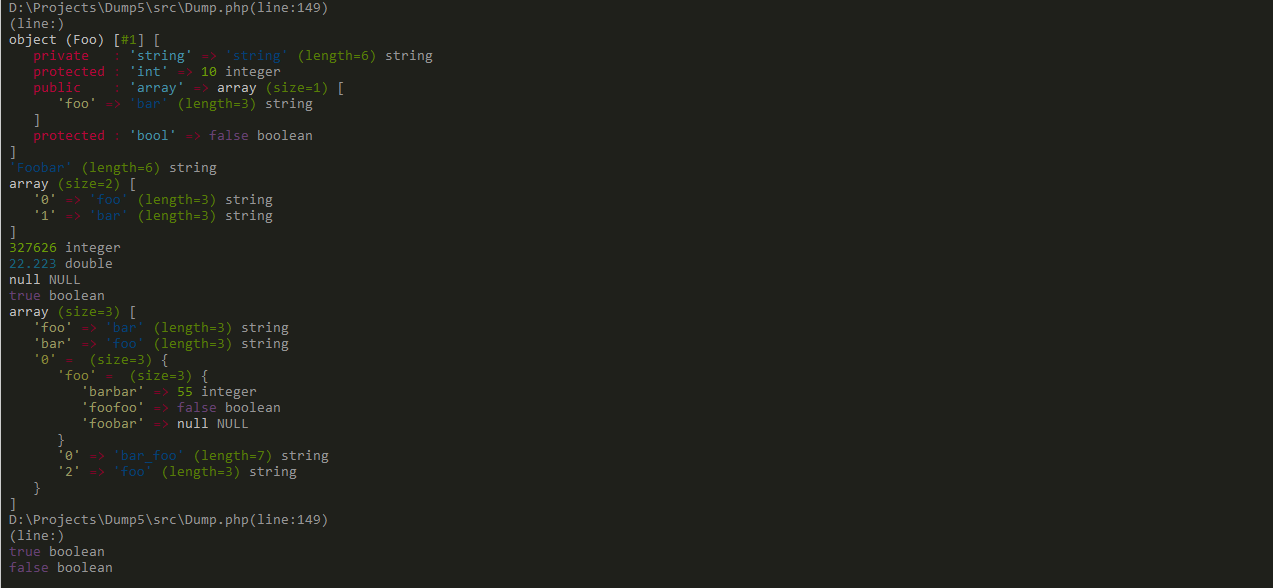
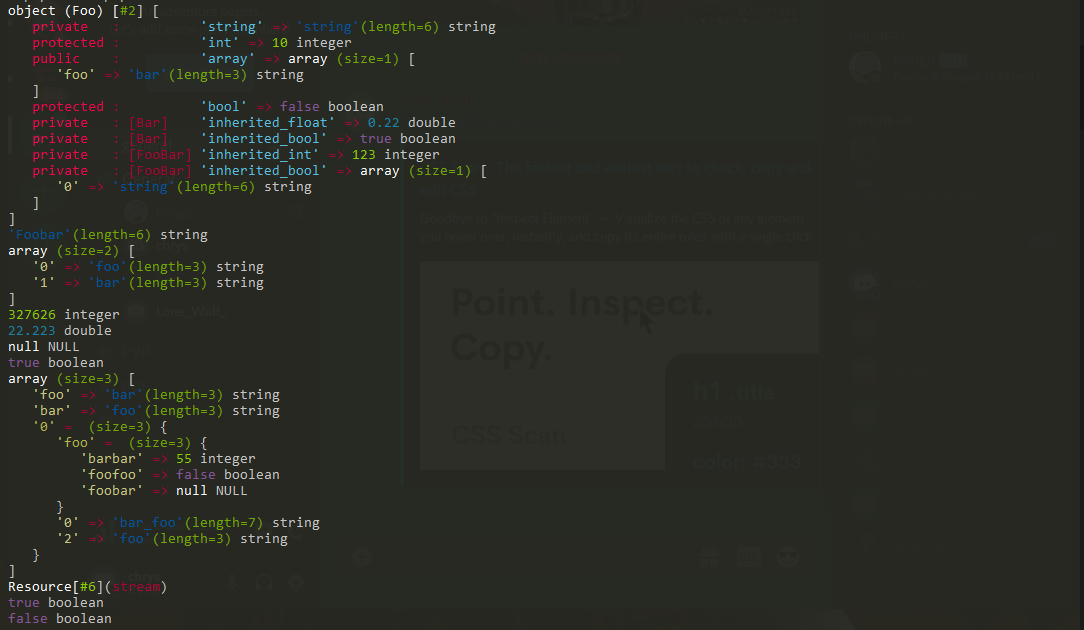
Add support for inherited properties

Changed region(s): [[0.0, 0.0, 0.4566, 1.0], [0.0304, 0.7959, 0.0609, 0.8265]]

diff --git a/src/Dump.php b/src/Dump.php
@@ -61,6 +61,7 @@ class Dump
         'type'                  => array('AAAAAA', 'light_gray'),
         'size'                  => array('5BA415', 'green'),
         'recursion'             => array('F00000', 'red'),
+        'resource'              => array('F00000', 'red'),
 
         'array'                 => array('000000', 'white'),
         'multi_array_key'       => array('59829e', 'yellow'),
@@ -296,14 +297,15 @@ class Dump
                 break;
             }
         }
+
         $file =  "{$bt['file']}(line:{$bt['line']})";
-        if (! $this->isCli)
+        if ($this->isCli)
         {
-            echo '<code><small>' . $file . '</small><br />' . $data . '</code>';
+            $this->write("{$file}\n{$data}");
         }
         else
         {
-            $this->write("{$file}\n{$data}");
+            echo '<code><small>' . $file . '</small><br />' . $data . '</code>';
         }
     }
 
@@ -316,22 +318,21 @@ class Dump
      */
     private function color($value, $name)
     {
-        if (! $this->isCli)
-        {
-            if ($name == 'type')
-            {
-                return '<small style="color:#' . $this->colors[$name][0] . '">' . $value . '</small>';
-            }
-            elseif ($name == 'array' || $name == 'object')
-            {
-                $value = preg_replace('/(\[|\]|array|object)/', '<b>$0</b>', $value);
-            }
-            return '<span  style="color:#' . $this->colors[$name][0] . '">' . $value . '</span>';
-        }
-        else
+        if ($this->isCli)
         {
             return $this->format($value, $this->colors[$name][1]);
         }
+
+        if ($name == 'type')
+        {
+            return '<small style="color:#' . $this->colors[$name][0] . '">' . $value . '</small>';
+        }
+        elseif ($name == 'array' || $name == 'object')
+        {
+            $value = preg_replace('/(\[|\]|array|object)/', '<b>$0</b>', $value);
+        }
+
+        return '<span  style="color:#' . $this->colors[$name][0] . '">' . $value . '</span>';
     }
 
     /**
@@ -376,7 +377,7 @@ class Dump
      */
     private function indent($pad)
     {
-        return str_repeat((! $this->isCli) ? '&nbsp;' : ' ', $pad);
+        return str_repeat($this->isCli ? ' ' : '&nbsp;', $pad);
     }
 
     /**
@@ -387,7 +388,7 @@ class Dump
      */
     private function pad($size)
     {
-        return str_repeat((! $this->isCli) ? '&nbsp;' : ' ', $size < 0 ? 0 : $size);
+        return str_repeat($this->isCli ? ' ' : '&nbsp;', $size < 0 ? 0 : $size);
     }
 
     /**
@@ -399,14 +400,9 @@ class Dump
      */
     private function arrayIndex($key, $parent = false)
     {
-        if (! $parent)
-        {
-            return $this->color("'$key'", 'multi_array_key') . " {$this->color('=', 'multi_array_arrow')} ";
-        }
-        else
-        {
-            return $this->color("'$key'", 'single_array_key') . " {$this->color('=>', 'single_array_arrow')} ";
-        }
+        return $parent
+            ? "{$this->color("'{$key}'", 'single_array_key')} {$this->color('=>', 'single_array_arrow')} "
+            : "{$this->color("'{$key}'", 'multi_array_key')} {$this->color('=', 'multi_array_arrow')} ";
     }
 
     /**
@@ -418,30 +414,34 @@ class Dump
      */
     private function formatArray(array $array, $obj_call)
     {
-        $tmp = '';
+        $tmp          = '';
         $this->indent += $this->pad_size;
+        $break_line   = $this->breakLine();
+        $indent       = $this->indent($this->indent);
         foreach ($array as $key => $arr)
         {
             if (is_array($arr))
             {
-                $tmp .= "{$this->breakLine()}{$this->indent($this->indent)}{$this->arrayIndex((string) $key)} {$this->counter(count($arr))}";
+                $tmp .= "{$break_line}{$indent}{$this->arrayIndex((string) $key)} {$this->counter(count($arr))}";
                 $new = $this->formatArray($arr, $obj_call);
-                $tmp .=  ($new != '') ? " {{$new}{$this->indent($this->indent)}}" : ' {}';
+                $tmp .= ($new != '') ? " {{$new}{$indent}}" : ' {}';
             }
             else
             {
-                $tmp .= "{$this->breakLine()}{$this->indent($this->indent)}{$this->arrayIndex((string) $key, true)}{$this->evaluate(array($arr), true)}";
+                $tmp .= "{$break_line}{$indent}{$this->arrayIndex((string) $key, true)}{$this->evaluate([$arr], true)}";
             }
         }
+
         $this->indent -= $this->pad_size;
         if ($tmp != '')
         {
-            $tmp .= $this->breakLine();
+            $tmp .= $break_line;
             if ($obj_call)
             {
                 $tmp .= $this->indent($this->indent);
             }
         }
+
         return $tmp;
     }
 
@@ -474,27 +474,64 @@ class Dump
             return $this->color('...', 'recursion');
         }
 
-        $reflection = new ReflectionObject($object);
-        $tmp = '';
-        $this->indent += $this->pad_size;
-        foreach ($reflection->getProperties() as $size => $prop)
+        $reflection   = new \ReflectionObject($object);
+        $parent       = $reflection->getParentClass();
+        $properties   = $reflection->getProperties();
+        $inherited    = array_fill(0, count($properties), null);
+        $max_indent   = 0;
+        $name         = null;
+        $props        = null;
+
+        while ($parent)
         {
+            $props      = $parent->getProperties();
+            $name       = $parent->getName();
+            $properties = array_merge($properties, $props);
+            $inherited  = array_merge($inherited, array_fill(count($inherited), count($props), $name));
+            $parent     = $parent->getParentClass();
+            $max_indent = max($max_indent, strlen($name));
+        }
+
+        $tmp             = '';
+        $indent          = $this->indent($this->indent += $this->pad_size);
+        $private_color   = $this->color('private', 'property_visibility');
+        $protected_color = $this->color('protected', 'property_visibility');
+        $public_color    = $this->color('public', 'property_visibility');
+        $property_color  = $this->color(':', 'property_arrow');
+        $arrow_color     = $this->color('=>', 'property_arrow');
+        $string_pad_2    = $this->pad(2);
+        $string_pad_3    = $this->pad(3);
+        $line_break      = $this->breakLine();
+
+        foreach ($properties as $size => $prop)
+        {
+            if (isset($inherited[$size]))
+            {
+                $name = $inherited[$size];
+                $from = $this->color("[{$name}]", 'property_arrow');
+                $from .= $this->indent($max_indent - strlen($name));
+            }
+            else
+            {
+                $from = $max_indent > 0 ? $this->indent($max_indent + 2) : '';
+            }
+
             if ($prop->isPrivate())
             {
-                $tmp .= "{$this->breakLine()}{$this->indent($this->indent)}{$this->color('private', 'property_visibility')}{$this->pad(2)} {$this->color(':', 'property_arrow')} ";
+                $tmp .= "{$line_break}{$indent}{$private_color}{$string_pad_2} {$property_color} ";
             }
             elseif ($prop->isProtected())
             {
-                $tmp .= "{$this->breakLine()}{$this->indent($this->indent)}{$this->color('protected', 'property_visibility')} {$this->color(':', 'property_arrow')} ";
+                $tmp .= "{$line_break}{$indent}{$protected_color} {$property_color} ";
             }
             elseif ($prop->isPublic())
             {
-                $tmp .= "{$this->breakLine()}{$this->indent($this->indent)}{$this->color('public', 'property_visibility')}{$this->pad(3)} {$this->color(':', 'property_arrow')} ";
+                $tmp .= "{$line_break}{$indent}{$public_color}{$string_pad_3} {$property_color} ";
             }
 
             $prop->setAccessible(true);
-            $tmp .= $this->color("'{$prop->getName()}'", 'property_name')
-                . " {$this->color('=>', 'property_arrow')} {$this->evaluate(array($prop->getValue($object)), true, true)}";
+            $new_obj = $prop->getValue($reflection->newInstanceWithoutConstructor());
+            $tmp .= "{$from} {$this->color("'{$prop->getName()}'", 'property_name')} {$arrow_color} {$this->evaluate(array($new_obj), true, true)}";
         }
 
         if ($tmp != '')
@@ -524,30 +561,28 @@ class Dump
      */
     private function evaluate(array $args, $called = false, $from_obj = false)
     {
-        $tmp = null;
+        $tmp        = null;
+        $null_color = $this->color('null', 'null');
+
         foreach ($args as $each)
         {
             $type = gettype($each);
             switch ($type)
             {
                 case 'string':
-
                     if (! $this->isCli)
                     {
                         $each = nl2br(str_replace(array('<', ' '), array('&lt;', '&nbsp;'), $each));
                     }
 
-                    $tmp .=  $this->color("'{$each}'", $type)
-                            . "{$this->counter(strlen($each), 1)}{$this->type($type)}";
+                    $tmp .= "{$this->color("'{$each}'", $type)}{$this->counter(strlen($each), 1)}{$this->type($type)}";
                     break;
                 case 'integer':
+                case 'double':
                     $tmp .=  "{$this->color((string) $each, $type)}{$this->type($type)}";
                     break;
-                case 'double':
-                    $tmp .= "{$this->color((string) $each, $type)}{$this->type($type)}";
-                    break;
                 case 'NULL':
-                    $tmp .= "{$this->color('null', 'null')}{$this->type($type)}";
+                    $tmp .= "{$null_color}{$this->type($type)}";
                     break;
                 case 'boolean':
                     $tmp .= "{$this->color($each ? 'true' : 'false', $type)}{$this->type($type)}";
@@ -556,10 +591,15 @@ class Dump
                     $tmp .= str_replace(array(':size', ':content'), array(
                         $this->counter(count($each)),
                         $this->formatArray($each, $from_obj)
-                    ), $this->color('array :size [:content]', 'array'));
+                    ), $this->color('array :size [:content]', $type));
                     break;
                 case 'object':
                     $tmp .= $this->formatObject($each);
+                    break;
+                case 'resource':
+                    $resource_type = get_resource_type($each);
+                    $resource_id   = (int) $each;
+                    $tmp .= $this->color( "Resource[{$this->color("#{$resource_id}", 'integer')}]({$this->color($resource_type, $type)}) ", 'object');
                     break;
             }
 
@@ -567,7 +607,6 @@ class Dump
             {
                 $tmp .= $this->breakLine();
             }
-
         }
 
         return $tmp;

diff --git a/README.md b/README.md
@@ -15,7 +15,19 @@ $ composer require ghostff/dump5
 ```
 
 ```php
-class Foo
+class FooBar
+{
+    private $inherited_int = 123;
+    private $inherited_bool = array('string');
+}
+
+class Bar extends FooBar
+{
+    private $inherited_float = 0.22;
+    private $inherited_bool = true;
+}
+
+class Foo extends Bar
 {
     private $string = 'string';
     protected $int = 10;
@@ -25,12 +37,14 @@ class Foo
     protected static $bool = false;
 }
 
-$string = 'Foobar';
-$array = array('foo', 'bar');
-$int = 327626;
-$double = 22.223;
-$null = null;
-$bool = true;
+$string   = 'Foobar';
+$array    = array('foo', 'bar');
+$int      = 327626;
+$double   = 22.223;
+$null     = null;
+$bool     = true;
+$resource = fopen('LICENSE', 'r');
+$m        = microtime(true);
 
 new Dump(new Foo, $string, $array, $int, $double, $null, $bool, array(
     'foo' => 'bar',
@@ -43,9 +57,10 @@ new Dump(new Foo, $string, $array, $int, $double, $null, $bool, array(
             'barbar' => 55,
             'foofoo' => false,
             'foobar' => null,
+
         )
     )
-));
+), $resource);
 
 new Dump(1 == '1', 1 === '1');
 ```
